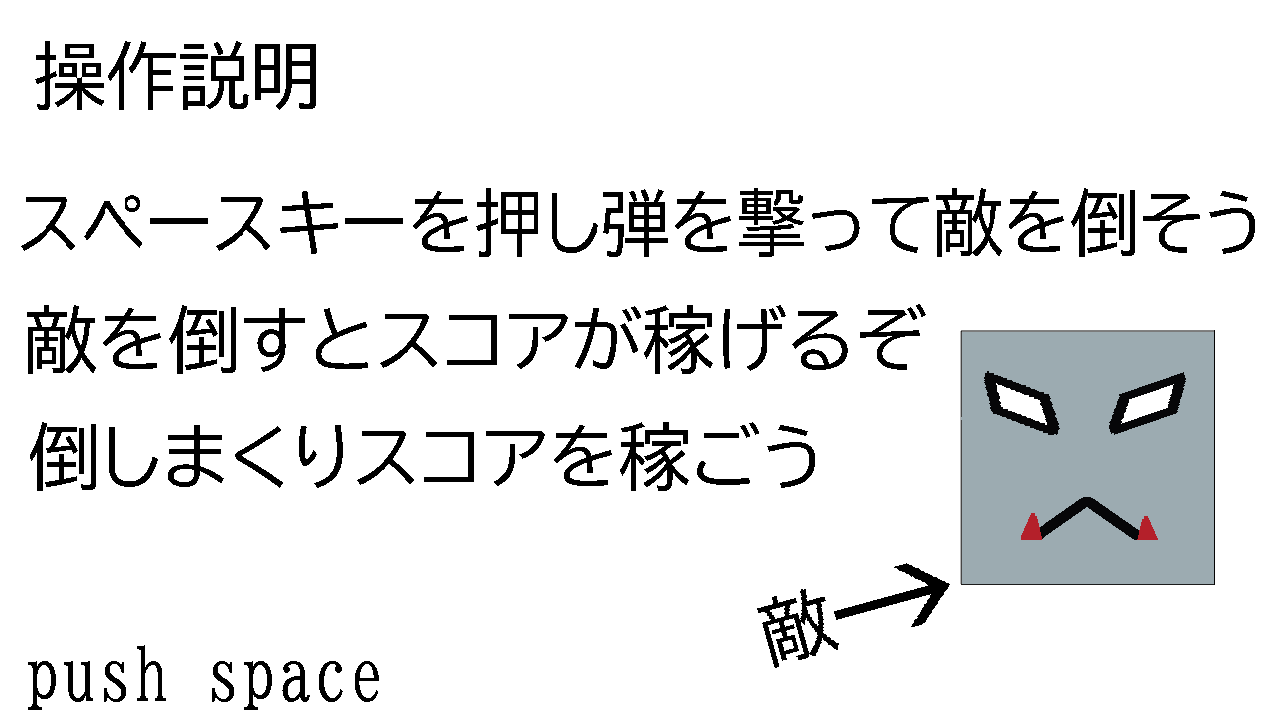
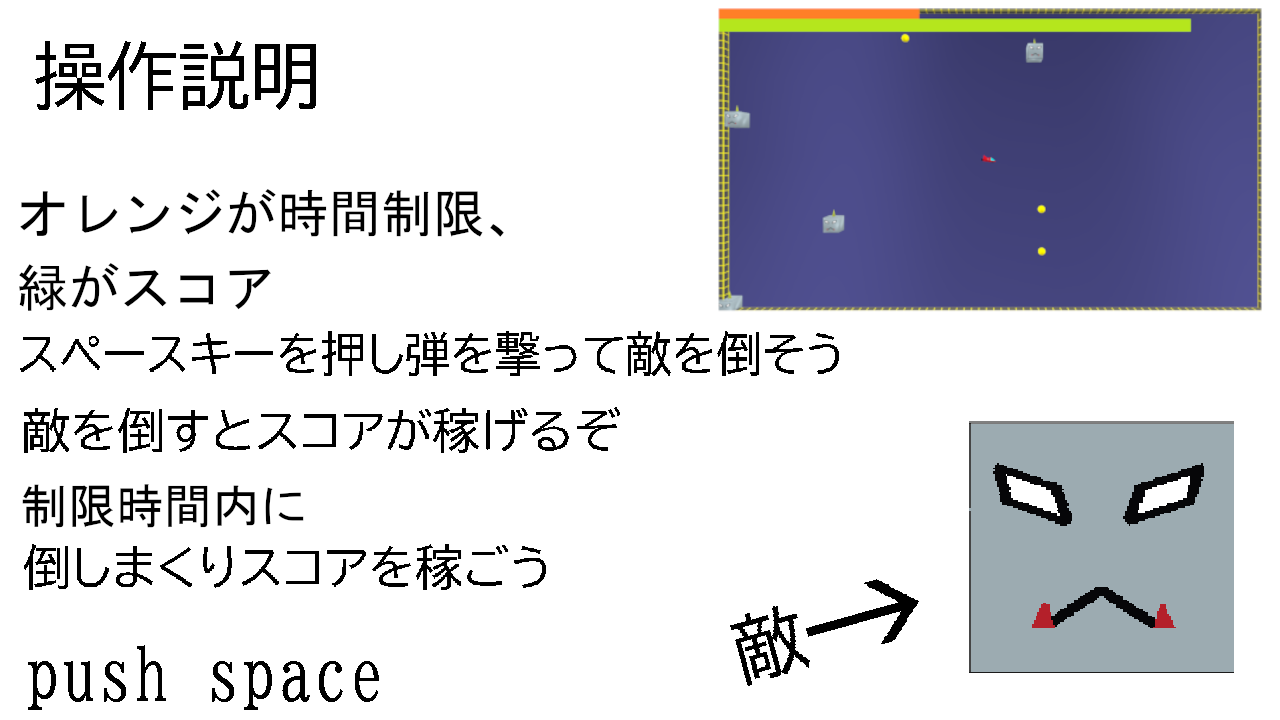
9割完了

diff --git a/DirectXGame/Game.cpp b/DirectXGame/Game.cpp
@@ -120,11 +120,21 @@ void Game::Initialize()
 	{
 	    {1, 0},
 	    {15, 11},
-		{25, 5},
+		{25, 50},
 		{35, 8},
-		{45, 3},
+		{45, 30},
 		{60, 10},
-        {75, 6 }
+        {75, 6 },
+
+
+		{5, 51},
+	    {2, 25 },
+	    {27, 48 },
+	    {42, 34 },
+	    {64, 10},
+
+
+
 	};
 
 	// 敵座標をマップチップ番号で指定
@@ -300,7 +310,7 @@ void Game::Update()
 	}
 	
 	
-	ImGui::Text("Score %d", score);
+	//ImGui::Text("Score %d", score);
 
 #pragma endregion
 
